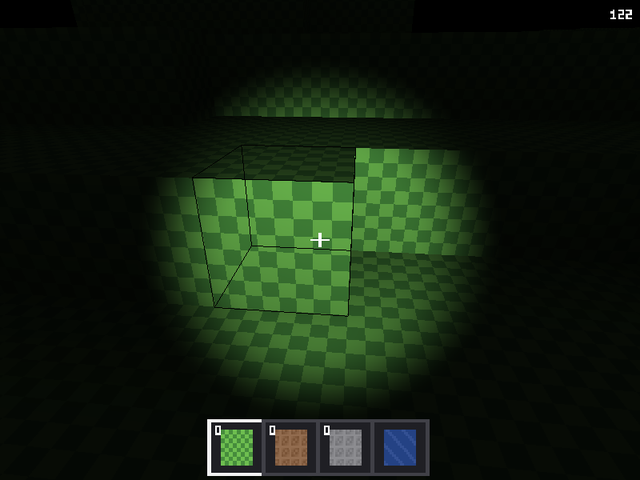
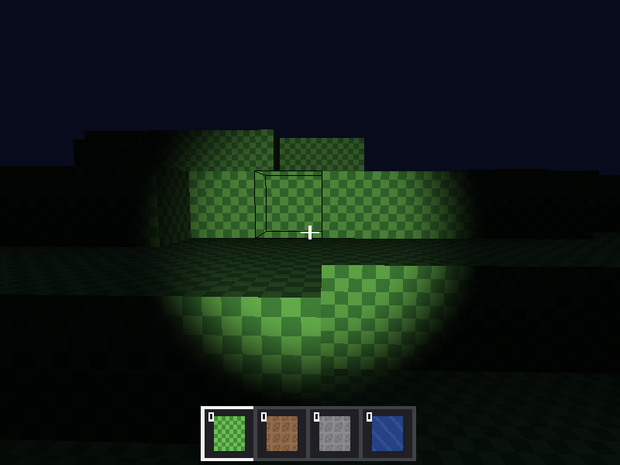
feat(light): moving sun and moon — directional N.L, warm low-angle light, unlit overlays

diff --git a/native/cf_shim.c b/native/cf_shim.c
@@ -21,6 +21,7 @@
 #include <stdlib.h>
 #include <string.h>
 #include <stdint.h>
+#include <math.h>
 #include <pthread.h>
 
 /* ── NativeArray payload access ──────────────────────────────────────────────
@@ -135,12 +136,14 @@ static const char *VS =
     "out vec2 v_uv; out float v_layer; out float v_shade;\n"
     "out vec3 v_world; out vec3 v_normal;\n"
     "const vec3 NORMALS[6] = vec3[6](vec3(0,1,0), vec3(0,-1,0), vec3(1,0,0), vec3(-1,0,0), vec3(0,0,1), vec3(0,0,-1));\n"
-    "const float FACE_SHADE[6] = float[6](1.0, 0.55, 0.75, 0.75, 0.85, 0.85);\n"
     "void main(){\n"
     "  int f = int(a_face + 0.5);\n"
     "  gl_Position = u_vp * vec4(a_pos,1.0);\n"
     "  v_uv=a_uv; v_layer=a_layer;\n"
-    "  v_shade = a_shade * FACE_SHADE[f];\n"
+    /* v_shade is now skylight x AO only. The per-face directional constant that
+     * used to be folded in here is replaced by a real N.L against a sun that
+     * moves, computed per fragment. */
+    "  v_shade = a_shade;\n"
     "  v_world = a_pos; v_normal = NORMALS[f];\n"
     "}\n";
 static const char *FS =
@@ -153,6 +156,9 @@ static const char *FS =
     "uniform vec3 u_eye;\n"
     "uniform vec3 u_dir;\n"
     "uniform float u_flash;\n"
+    "uniform vec3 u_sundir;\n"
+    "uniform vec3 u_moondir;\n"
+    "uniform int u_unlit;\n"
     "out vec4 o_color;\n"
     /* The beam shape never varies at runtime, only its position, aim and
      * on/off state, so the cone half-angles are constants rather than uniforms. */
@@ -165,17 +171,40 @@ static const char *FS =
     "const vec3  MOON_TINT  = vec3(0.60, 0.72, 1.00);\n"
     "const float MOON_LEVEL = 0.13;\n"
     "const float MOON_UNTIL = 0.25;\n"
+    /* Sunlight reddens as it nears the horizon. SUN_WARM is dawn/dusk, SUN_WHITE
+     * is high noon; u_sun doubles as the sun's height, so it drives the blend. */
+    "const vec3  SUN_WARM  = vec3(1.00, 0.62, 0.35);\n"
+    "const vec3  SUN_WHITE = vec3(1.00, 0.98, 0.94);\n"
+    /* Ambient floor so a face turned away from the sun keeps its shape instead
+     * of going flat black; the up-bias stands in for sky versus ground bounce.
+     * AMB + DIRECT <= 1 keeps a lit top face from clipping at noon. */
+    /* The sun's HEIGHT (u_sun) is not its intensity: it stays bright until it is
+     * nearly down, and it is the angle that makes surfaces dim. Conflating the
+     * two made the whole world fade as cos(theta) and swallowed golden hour. */
+    "const float SET_AT = 0.22;\n"
+    "const float AMB    = 0.30;\n"
+    "const float AMB_UP = 0.08;\n"
+    "const float DIRECT = 0.62;\n"
     "void main(){\n"
     "  vec4 t = (u_use_tex == 1) ? texture(u_tex, vec3(v_uv, v_layer)) : vec4(v_uv, v_layer, 1.0);\n"
     "  float moon = clamp((MOON_UNTIL - u_sun) / MOON_UNTIL, 0.0, 1.0);\n"
-    "  vec3  sky  = vec3(u_sun) + MOON_TINT * (MOON_LEVEL * moon);\n"
+    "  float amb  = AMB + AMB_UP * v_normal.y;\n"
+    "  float ndls = max(dot(v_normal, u_sundir),  0.0);\n"
+    "  float ndlm = max(dot(v_normal, u_moondir), 0.0);\n"
+    "  vec3  sunc = mix(SUN_WARM, SUN_WHITE, smoothstep(0.0, 0.50, u_sun));\n"
+    "  float inten = clamp(u_sun / SET_AT, 0.0, 1.0);\n"
+    "  vec3  sky  = sunc * (inten * (amb + DIRECT * ndls))\n"
+    "             + MOON_TINT * (MOON_LEVEL * moon * (amb + DIRECT * ndlm));\n"
     "  vec3  baked = v_shade * sky;\n"
     "  vec3  L  = u_eye - v_world;\n"
     "  float d2 = dot(L, L);\n"
     "  vec3  Ln = L * inversesqrt(max(d2, 1e-6));\n"
     "  float spot  = smoothstep(COS_OUTER, COS_INNER, dot(-Ln, u_dir));\n"
     "  float flash = u_flash * spot * max(dot(v_normal, Ln), 0.0) / (1.0 + 0.02 * d2);\n"
-    "  o_color = vec4(t.rgb * (baked + vec3(flash)), t.a);\n"
+    "  vec3  world = baked + vec3(flash);\n"
+    /* Overlays (HUD, outline, map marker) share this program but are not part of
+     * the world: they keep their own vertex shade and skip lighting entirely. */
+    "  o_color = vec4(t.rgb * ((u_unlit == 1) ? vec3(v_shade) : world), t.a);\n"
     "}\n";
 
 static GLuint compile(GLenum kind, const char *src) {
@@ -190,6 +219,7 @@ static GLuint compile(GLenum kind, const char *src) {
 static GLuint g_vbo[CF_MAX_MESHES];
 static GLint  g_u_use_tex = -1;
 static GLint  g_u_sun = -1, g_u_eye = -1, g_u_dir = -1, g_u_flash = -1;
+static GLint  g_u_sundir = -1, g_u_moondir = -1, g_u_unlit = -1;
 static GLuint g_tex = 0;
 
 int64_t cf_gfx_init(void) {
@@ -206,6 +236,9 @@ int64_t cf_gfx_init(void) {
     g_u_eye = glGetUniformLocation(g_prog, "u_eye");
     g_u_dir = glGetUniformLocation(g_prog, "u_dir");
     g_u_flash = glGetUniformLocation(g_prog, "u_flash");
+    g_u_sundir = glGetUniformLocation(g_prog, "u_sundir");
+    g_u_moondir = glGetUniformLocation(g_prog, "u_moondir");
+    g_u_unlit = glGetUniformLocation(g_prog, "u_unlit");
     glGenVertexArrays(1, &g_vao);
     glGenBuffers(CF_MAX_MESHES, g_vbo);
     glUseProgram(g_prog);
@@ -300,29 +333,25 @@ void cf_gfx_draw_translucent(int64_t slot, int64_t nverts) {
  * projection and depth state — for a world-space overlay that should obey
  * normal depth testing (e.g. a marker floating above all possible terrain,
  * so it is naturally visible without disabling the depth test). */
+/* The HUD, the block outline and the map marker share the world program but are
+ * not part of the world: they are screen-space or diagnostic overlays. u_unlit
+ * makes the fragment shader skip lighting for them entirely, which is why they
+ * survive a moving sun — forcing full daylight would still have dimmed them
+ * whenever the sun sat near the horizon. */
+static void cf_unlit_begin(void) { glUniform1i(g_u_unlit, 1); }
+static void cf_unlit_end(void)   { glUniform1i(g_u_unlit, 0); }
+
 void cf_gfx_draw_marker(int64_t slot, int64_t nverts) {
     if (slot < 0 || slot >= CF_MAX_MESHES || nverts <= 0) return;
+    cf_unlit_begin();
     glUniform1i(g_u_use_tex, 0);
     cf_gfx_draw(slot, nverts);
     glUniform1i(g_u_use_tex, g_tex ? 1 : 0);
+    cf_unlit_end();
 }
 
 /* Draw a mesh slot as GL_LINES with the current view-projection, untextured,
  * depth test off so a selection outline is never hidden by the face it sits on. */
-/* The HUD and the block outline share the world program but must not be lit:
- * they are screen-space or wireframe overlays. Force full sun and no flashlight
- * around their draws, then restore what the frame asked for. */
-static float g_sun_saved = 1.0f, g_flash_saved = 0.0f;
-static void cf_unlit_begin(void) {
-    glGetUniformfv(g_prog, g_u_sun, &g_sun_saved);
-    glGetUniformfv(g_prog, g_u_flash, &g_flash_saved);
-    glUniform1f(g_u_sun, 1.0f);
-    glUniform1f(g_u_flash, 0.0f);
-}
-static void cf_unlit_end(void) {
-    glUniform1f(g_u_sun, g_sun_saved);
-    glUniform1f(g_u_flash, g_flash_saved);
-}
 
 void cf_gfx_draw_lines(int64_t slot, int64_t nverts) {
     if (slot < 0 || slot >= CF_MAX_MESHES || nverts <= 0) return;
@@ -404,6 +433,17 @@ void cf_gfx_set_light(double sun, double ex, double ey, double ez,
     glUniform3f(g_u_eye, (float)ex, (float)ey, (float)ez);
     glUniform3f(g_u_dir, (float)dx, (float)dy, (float)dz);
     glUniform1f(g_u_flash, flash ? 1.0f : 0.0f);
+}
+
+/* Direction TO the sun and TO the moon, in world space. Normalised here so the
+ * caller can pass a raw arc position. Called once per frame with set_light. */
+void cf_gfx_set_sky(double sx, double sy, double sz, double mx, double my, double mz) {
+    if (!g_prog) return;
+    double sl = sqrt(sx*sx + sy*sy + sz*sz); if (sl < 1e-9) sl = 1.0;
+    double ml = sqrt(mx*mx + my*my + mz*mz); if (ml < 1e-9) ml = 1.0;
+    glUseProgram(g_prog);
+    glUniform3f(g_u_sundir,  (float)(sx/sl), (float)(sy/sl), (float)(sz/sl));
+    glUniform3f(g_u_moondir, (float)(mx/ml), (float)(my/ml), (float)(mz/ml));
 }
 
 /* Debug/verification hook: read back one pixel of the back buffer as 0xRRGGBB.

diff --git a/docs/superpowers/specs/2026-09-03-lighting-design.md b/docs/superpowers/specs/2026-09-03-lighting-design.md
@@ -141,11 +141,34 @@ A full day is 1800 seconds (30 minutes) by default; `CF_DAY` overrides it, which
 is what makes night reachable in a screenshot or a headless run.
 `cf_win_time()` drives the clock; `F` toggles the flashlight.
 
-**The sun has no direction.** `u_sun` is a scalar: it scales every face by the
-same factor, and the directional component stays the fixed `FACE_SHADE[6]` table
-inherited from the pre-lighting mesher. Sunlight therefore changes brightness
-through the day but never angle, and because the skylight flood is seeded
-straight down each column, overhang shadows never move or lengthen either.
+**The sun moves** (added after the first pass shipped). `FACE_SHADE[6]` is gone:
+the directional term is a real `N·L` against `u_sundir`, which rides a great
+circle through the day — overhead at noon, `+x` at dusk, `-x` at dawn, with a
+constant `z` tilt so north and south faces are not lit identically all day.
+`u_moondir` is the opposite end of the same arc, so the moon climbs as the sun
+sets. `sun_level` *is* that arc's height clamped at the horizon, so the level and
+the direction can never disagree about when it is dark.
+
+Two things the first cut got wrong and this fixes:
+
+- **Height is not intensity.** Using `u_sun` as the brightness multiplier faded
+  the whole world as `cos θ` and swallowed golden hour. Intensity now holds at
+  full until the sun is near the horizon (`SET_AT`); the *angle* does the
+  dimming, which is what makes a low sun rake across vertical faces while the
+  ground goes dark.
+- **Overlays cannot be lit.** The HUD, outline and map marker share this program.
+  Forcing them to "full daylight" was enough while light had no direction, but a
+  low sun would still have dimmed them. They now set `u_unlit`, which skips
+  lighting outright and keeps their own vertex shade.
+
+Sunlight warms toward `SUN_WARM` as it nears the horizon and the clear colour
+swings to a warm sky over the same range. **Shadows still do not move** — the
+skylight flood is seeded straight down each column, so an overhang casts the
+same shadow at noon and at dusk. Moving shadows would need a directional flood
+(a 521 ms re-flood per sun step) or shadow maps.
+
+`CF_SUN=<degrees>` pins the sun's arc angle (0 noon, 90 sunset, 180 midnight,
+270 sunrise) for headless verification, the way `CF_AUTOMAP` pins the map view.
 
 ## 5. Verification — `test/light_test.march`
 

diff --git a/todos.md b/todos.md
@@ -16,7 +16,7 @@ Planned, not started. One entry per feature; each gets its own design doc under
 
 - [ ] **Main-thread pinning runtime patch** (GAPS.md G15) — chip spawned, in progress in a separate session.
 - [x] **Greedy meshing + sections + `blit` stdlib candidate** — done 2026-09-03 (`docs/superpowers/specs/2026-09-03-greedy-sections-blit-design.md`): 6x fewer vertices, section remesh 3–5x faster; blit exists as `cf_f32_blit` + `F32Buf.append`.
-- [x] **Lighting** — done 2026-09-03 (`docs/superpowers/specs/2026-09-03-lighting-design.md`, plan `docs/superpowers/plans/2026-09-03-lighting.md`): flood-fill skylight, smooth per-vertex light + AO with quad flip packed into the greedy key, bounded incremental relight, day/night on a 30-minute cycle with tinted moonlight (`CF_DAY`), camera flashlight (F, `CF_FLASH`). Vertex layout 7 -> 8 floats. GAPS G61/G62.
+- [x] **Lighting** — done 2026-09-03 (`docs/superpowers/specs/2026-09-03-lighting-design.md`, plan `docs/superpowers/plans/2026-09-03-lighting.md`): flood-fill skylight, smooth per-vertex light + AO with quad flip packed into the greedy key, bounded incremental relight, a moving sun and moon on a 30-minute cycle with warm low-angle light and tinted moonlight (`CF_DAY`, `CF_SUN`), camera flashlight (F, `CF_FLASH`). Vertex layout 7 -> 8 floats. GAPS G61/G62.
 - [ ] **Texture atlas via stb_image** — real block textures; needs `Bytes` across FFI fixed first (GAPS.md G8).
 - [ ] **Chunk streaming with actors** — infinite world, chunk lifecycle as actor state, supervision under load.
 - [ ] **Save/load through the CAS** — persistence keyed by BLAKE3 chunk hashes.

diff --git a/RESULTS.md b/RESULTS.md
@@ -147,6 +147,7 @@ Release build, headless, 8x8 chunks.
 | full-world skylight flood | — | **521 ms** (one-off, at startup) |
 | incremental relight per block edit | — | **~50 ms** debug / ~22 ms release |
 | day/night cycle | — | 1800 s (30 min) by default; `CF_DAY` overrides |
+| sun/moon direction | fixed per-face constants | a moving `N·L`; `CF_SUN=<deg>` pins the angle |
 | mesh all 64 chunks | 755 ms | 1 676 ms |
 
 The opaque vertex rise is the accepted cost of smooth lighting: the greedy mask
